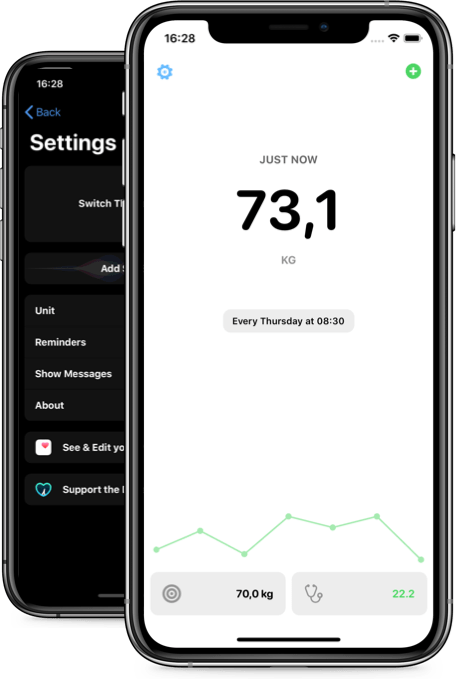
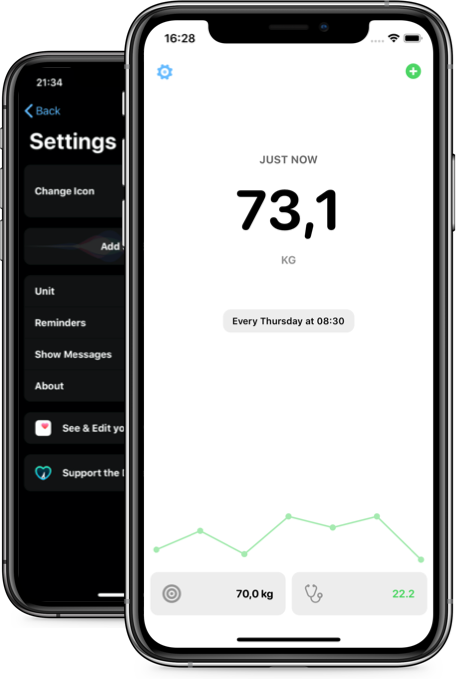
Updated website with latest version of the app

diff --git a/css/main-min.css b/css/main-min.css
@@ -1,1 +1,1 @@
-*{--text-color: #fff;--bg-color: #000;--red: #FB3D38;--blue: #66BBFF;--green: #4CD564;--shade-1: #6A6A6A;--shade-2: #2D2D2D;--shade-3: #121212;--app-store: url(../img/dark/app-store.svg);--header-visual: -webkit-image-set(url(../img/dark/top-visual.png) 1x, url(../img/dark/top-visual@2x.png) 2x);--video-frame: -webkit-image-set(url(../img/dark/reminder-frame.png) 1x, url(../img/dark/reminder-frame@2x.png) 2x);--bmi-visual: -webkit-image-set(url(../img/dark/bmi-visual.png) 1x, url(../img/dark/bmi-visual@2x.png) 2x);--target-visual: -webkit-image-set(url(../img/light/target-visual.png) 1x, url(../img/light/target-visual@2x.png) 2x);--nav-gradient-2: rgba(0,0,0,0)}@media (prefers-color-scheme: light){*{--text-color: #000;--bg-color: #fff;--blue: #33A4FF;--green: #2EC248;--shade-1: #949494;--shade-2: #D1D1D1;--shade-3: #EDEDED;--app-store: url(../img/light/app-store.svg);--header-visual: -webkit-image-set(url(../img/light/top-visual.png) 1x, url(../img/light/top-visual@2x.png) 2x);--video-frame: -webkit-image-set(url(../img/light/reminder-frame.png) 1x, url(../img/light/reminder-frame@2x.png) 2x);--bmi-visual: -webkit-image-set(url(../img/light/bmi-visual.png) 1x, url(../img/light/bmi-visual@2x.png) 2x);--target-visual: -webkit-image-set(url(../img/light/target-visual.png) 1x, url(../img/light/target-visual@2x.png) 2x);--nav-gradient-2: rgba(255,255,255,0)}}html,body{color:var(--text-color);background:var(--bg-color);font-size:1em;line-height:1.4;margin:0;width:100%;overflow-x:none}.unavailable{opacity:.5;text-decoration:line-through !important}::-moz-selection{background:var(--blue);text-shadow:none}::selection{background:var(--blue);text-shadow:none}hr{display:block;height:1px;border:0;border-top:1px solid #ccc;margin:1em 0;padding:0}audio,canvas,iframe,img,svg,video{vertical-align:middle}fieldset{border:0;margin:0;padding:0}textarea{resize:vertical}.browserupgrade{margin:0.2em 0;background:#ccc;color:#000;padding:0.2em 0}html{box-sizing:border-box;font-family:-apple-system, BlinkMacSystemFont, SegoeUI, 'Segoe UI', 'Roboto', Roboto, Helvetica, Arial, sans-serif, 'Apple Color Emoji', 'Segoe UI Emoji', 'Segoe UI Symbol';-webkit-font-smoothing:antialiased;height:100%}*,*:before,*:after{box-sizing:inherit}input[type='submit'],strong{font-family:-apple-system, BlinkMacSystemFont, SegoeUI, 'Segoe UI', 'Roboto', Roboto, Helvetica, Arial, sans-serif, 'Apple Color Emoji', 'Segoe UI Emoji', 'Segoe UI Symbol'}.main{display:-webkit-box;display:-webkit-flex;display:flex;-webkit-box-orient:vertical;-webkit-box-direction:normal;-webkit-flex-direction:column;flex-direction:column;height:100%;margin:0 auto;padding:constant(safe-area-inset-top) constant(safe-area-inset-right) constant(safe-area-inset-bottom) constant(safe-area-inset-left);padding:env(safe-area-inset-top) env(safe-area-inset-right) env(safe-area-inset-bottom) env(safe-area-inset-left);width:100%}@media (min-width: 1024px){.main{max-width:1440px}}a.app-store{display:block;width:184px;height:56px;background:url(../img/dark/app-store.svg);background:var(--app-store);background-size:cover;-webkit-transition:200ms ease-in-out;transition:200ms ease-in-out}a.app-store:hover{opacity:0.7}.header{height:100vh;max-height:1080px;width:100vw;max-width:1280px;margin:0 auto;margin-top:32px;padding:0 0 0 32px;display:grid;grid-template-rows:repeat(1, auto);grid-template-columns:repeat(8, 1fr);grid-column-gap:1rem}.header-text{height:100%;width:100%;grid-column-start:1;grid-column-end:6;display:-webkit-box;display:-webkit-flex;display:flex;-webkit-box-orient:vertical;-webkit-box-direction:normal;-webkit-flex-direction:column;flex-direction:column;-webkit-box-align:center;-webkit-align-items:center;align-items:center;-webkit-box-pack:center;-webkit-justify-content:center;justify-content:center}.header-visual{grid-column-start:6;grid-column-end:none;display:-webkit-box;display:-webkit-flex;display:flex;-webkit-box-orient:vertical;-webkit-box-direction:normal;-webkit-flex-direction:column;flex-direction:column;-webkit-box-align:center;-webkit-align-items:center;align-items:center;-webkit-box-pack:center;-webkit-justify-content:center;justify-content:center}span.header-visual-box{background-position:center;background:-webkit-image-set(url(../img/light/top-visual.png) 1x, url(../img/light/top-visual@2x.png) 2x);background:var(--header-visual);background-repeat:no-repeat;background-size:cover;width:100%;height:100%;max-width:456px;max-height:679px;display:block}.header-text-box{display:-webkit-box;display:-webkit-flex;display:flex;-webkit-box-orient:vertical;-webkit-box-direction:normal;-webkit-flex-direction:column;flex-direction:column;-webkit-box-align:start;-webkit-align-items:flex-start;align-items:flex-start;-webkit-box-pack:center;-webkit-justify-content:center;justify-content:center}.header-text-box p{max-width:560px;font-size:1.5rem;padding-bottom:2rem;color:var(--text-color)}h1.eyebrow{font-size:1.5rem;font-weight:400;color:var(--shade-1)}h1.eyebrow strong{font-weight:800;color:var(--text-color)}h2.headline{font-size:4.5rem;font-weight:800;line-height:100%;margin:4px 0}h2{font-size:3rem;font-weight:800;line-height:100%;margin:24px 0}nav{height:64px;width:100vw;position:fixed;z-index:100;display:-webkit-box;display:-webkit-flex;display:flex;-webkit-box-align:center;-webkit-align-items:center;align-items:center;-webkit-box-pack:justify;-webkit-justify-content:space-between;justify-content:space-between;padding:.5rem 2rem;background:-webkit-linear-gradient(top, var(--bg-color) 1%, var(--nav-gradient-2) 100%);background:linear-gradient(to bottom, var(--bg-color) 1%, var(--nav-gradient-2) 100%)}nav .logo{display:block;width:3rem;height:3rem;background:-webkit-image-set(url(../img/app-icon.png) 1x, url(../img/app-icon@2x.png) 2x)}.privacy{padding:2rem;}.privacy h1{font-size:3rem;font-weight:800;line-height:100%;margin:24px 0;padding-top:32px}nav .links a{margin:.5rem 1rem .5rem .5rem;text-decoration:none;font-weight:550;color:var(--shade-1);-webkit-transition:.4s;transition:.4s}nav .links a.cta{color:var(--blue);margin-right:0}nav .links a:hover{color:var(--green)}.reminder-video{width:228px;height:465px;display:-webkit-box;display:-webkit-flex;display:flex;-webkit-box-align:center;-webkit-align-items:center;align-items:center;-webkit-box-pack:center;-webkit-justify-content:center;justify-content:center;position:relative}.video-frame{width:228px;height:465px;position:absolute;z-index:10;background:-webkit-image-set(url(../img/light/reminder-frame.png) 1x, url(../img/light/reminder-frame@2x.png) 2x);background:var(--video-frame);background-repeat:no-repeat;top:4px}.reminder-video video{width:198px;height:430px;position:absolute;top:18px}article{width:100vw;max-width:1280px;margin:0 auto;padding:6rem 2rem}.features{display:grid;grid-template-columns:repeat(3, 1fr);grid-template-rows:repeat(2, auto);grid-gap:2rem 1rem;padding-top:0;margin-top:3rem}.features.small-grid{grid-template-columns:repeat(4, 1fr);margin-top:3rem}.features .section{padding:24px;width:100%;background:var(--shade-3);border-radius:.5rem;height:568px}.features .section p{color:var(--text-color);max-width:22rem;margin:0;font-size:1.125rem;font-weight:600}.features .section h3{margin:0 0 4px 0;font-size:1.125rem;font-weight:800}.features.small-grid .section{height:auto;font-weight:bold}.features.small-grid h4{margin:0}.features.small-grid p{font-size:1rem;font-weight:400;color:var(--shade-1)}.section.small{background:-webkit-linear-gradient(var(--bg-color), var(--shade-3));background:linear-gradient(var(--bg-color), var(--shade-3))}.section.health{grid-column-start:1;grid-column-end:2}.section .feature-content{height:100%;display:-webkit-box;display:-webkit-flex;display:flex;-webkit-box-orient:vertical;-webkit-box-direction:normal;-webkit-flex-direction:column;flex-direction:column;-webkit-box-align:center;-webkit-align-items:center;align-items:center;-webkit-box-pack:justify;-webkit-justify-content:space-between;justify-content:space-between}.section .feature-visual{width:100%;height:100%;display:-webkit-box;display:-webkit-flex;display:flex;-webkit-box-align:center;-webkit-align-items:center;align-items:center;-webkit-box-pack:center;-webkit-justify-content:center;justify-content:center}.section.reminders{grid-column-start:2;grid-column-end:4;display:-webkit-box;display:-webkit-flex;display:flex;-webkit-box-align:center;-webkit-align-items:center;align-items:center;-webkit-justify-content:space-around;justify-content:space-around}.section.reminders i{display:block;font-size:.75rem;margin-top:.5rem}.section.bmi{grid-column-start:1;grid-column-end:3;display:-webkit-box;display:-webkit-flex;display:flex;-webkit-box-align:center;-webkit-align-items:center;align-items:center;-webkit-justify-content:space-around;justify-content:space-around}.section.bmi .feature-visual{width:352px;height:478px;display:inherit;background:-webkit-image-set(url(../img/dark/bmi-visual.png) 1x, url(../img/dark/bmi-visual@2x.png) 2x);background:var(--bmi-visual);background-size:cover;background-repeat:no-repeat}.watch{background:var(--shade-3);border-radius:1rem;padding:2rem 2rem 4rem 2rem;margin-top:6rem}.watch h2{max-width:596px}.watch p{max-width:596px;font-size:1.5rem;margin-bottom:5.5rem}.watch-version{display:grid;grid-template-columns:repeat(4, 1fr);grid-gap:1rem}.watch-version .section{display:-webkit-box;display:-webkit-flex;display:flex;-webkit-box-align:center;-webkit-align-items:center;align-items:center;-webkit-box-orient:vertical;-webkit-box-direction:normal;-webkit-flex-direction:column;flex-direction:column;-webkit-box-pack:center;-webkit-justify-content:center;justify-content:center}.watch-version img{width:168px;height:auto;display:inherit}.watch-version h4{text-align:center;margin-top:3rem}.section.target .feature-visual{width:169px;height:303px;display:inherit;background:-webkit-image-set(url(../img/light/target-visual.png) 1x, url(../img/light/target-visual@2x.png) 2x);background:var(--target-visual);margin-top:2.5rem;background-repeat:no-repeat}.section.target{grid-column-start:3;grid-column-end:4}.red{color:var(--red)}.blue{color:var(--blue)}.green{color:var(--green)}.footer{-webkit-box-align:center;-webkit-align-items:center;align-items:center;color:var(--shade-1);display:-webkit-box;display:-webkit-flex;display:flex;-webkit-box-orient:vertical;-webkit-box-direction:normal;-webkit-flex-direction:column;flex-direction:column;-webkit-box-pack:center;-webkit-justify-content:center;justify-content:center;margin-bottom:48px;margin-top:72px}.footer .app-store{margin-bottom:2rem}.footer .copyright{color:var(--shade-1);text-decoration:none;font-weight:600;margin-top:.5rem}.footer .copyright:hover{color:var(--blue)}@media (min-width: 1024px){.footer{margin-bottom:64px;margin-top:144px}}@media (max-width: 700px){nav{padding:.55rem}.main{width:100vw;max-height:none;overflow-x:hidden}.header{grid-template-columns:repeat(1, auto);grid-template-rows:repeat(2, auto);margin-top:6rem;padding:.75rem;max-height:none;height:auto;background:-webkit-linear-gradient(top, var(--bg-color) 1%, var(--shade-3) 100%);background:linear-gradient(to bottom, var(--bg-color) 1%, var(--shade-3) 100%);padding-bottom:0}.header h2.headline{font-size:4rem}.header-text{grid-column-end:none}.header-visual{grid-column-start:1;height:50vh;margin-top:4rem}nav .cta{display:none}article{padding:6rem 1rem 0rem 1rem}article.watch{border-radius:0}article.watch .headline{font-size:3rem}.watch-version{overflow-x:scroll;-webkit-overflow-scrolling:touch;margin-left:-2rem;width:100vw;padding-left:2rem;padding-right:2rem}.features.small-grid{grid-gap:1rem}.features.small-grid .section{-webkit-box-align:start;-webkit-align-items:flex-start;align-items:flex-start}.watch p{margin-bottom:4rem}.features{display:grid;grid-template-columns:repeat(1, auto);grid-template-rows:repeat(4, auto);grid-gap:2rem 1rem;padding-top:0}.features .section{grid-column-start:1 !important;grid-column-end:1 !important;height:auto;width:calc(100vw - 2rem);display:-webkit-box;display:-webkit-flex;display:flex;-webkit-box-orient:vertical;-webkit-box-direction:normal;-webkit-flex-direction:column;flex-direction:column;-webkit-box-align:center;-webkit-align-items:center;align-items:center;-webkit-box-pack:center;-webkit-justify-content:center;justify-content:center}.section.bmi{display:-webkit-box;display:-webkit-flex;display:flex;-webkit-box-align:center;-webkit-align-items:center;align-items:center;-webkit-justify-content:space-around;justify-content:space-around;padding-bottom:0rem}.section.bmi .feature-visual{margin-top:1rem;margin-bottom:-2rem}.section.target .feature-visual{margin-bottom:2rem}.section.reminder{display:-webkit-box;display:-webkit-flex;display:flex;-webkit-box-align:center;-webkit-align-items:center;align-items:center;-webkit-box-orient:vertical;-webkit-box-direction:normal;-webkit-flex-direction:column;flex-direction:column;-webkit-justify-content:space-around;justify-content:space-around}.reminder-video{margin-top:2rem;margin-bottom:1rem}}
+*{--text-color: #fff;--bg-color: #000;--red: #FB3D38;--blue: #66BBFF;--green: #4CD564;--shade-1: #6A6A6A;--shade-2: #2D2D2D;--shade-3: #121212;--app-store: url(../img/dark/app-store.svg);--header-visual: -webkit-image-set(url(../img/dark/top-visual.png) 1x, url(../img/dark/top-visual@2x.png) 2x);--video-frame: -webkit-image-set(url(../img/dark/reminder-frame.png) 1x, url(../img/dark/reminder-frame@2x.png) 2x);--bmi-visual: -webkit-image-set(url(../img/dark/bmi-visual.png) 1x, url(../img/dark/bmi-visual@2x.png) 2x);--target-visual: -webkit-image-set(url(../img/light/target-visual.png) 1x, url(../img/light/target-visual@2x.png) 2x);--nav-gradient-2: rgba(0,0,0,0)}@media (prefers-color-scheme: light){*{--text-color: #000;--bg-color: #fff;--blue: #33A4FF;--green: #2EC248;--shade-1: #949494;--shade-2: #D1D1D1;--shade-3: #EDEDED;--app-store: url(../img/light/app-store.svg);--header-visual: -webkit-image-set(url(../img/light/top-visual.png) 1x, url(../img/light/top-visual@2x.png) 2x);--video-frame: -webkit-image-set(url(../img/light/reminder-frame.png) 1x, url(../img/light/reminder-frame@2x.png) 2x);--bmi-visual: -webkit-image-set(url(../img/light/bmi-visual.png) 1x, url(../img/light/bmi-visual@2x.png) 2x);--target-visual: -webkit-image-set(url(../img/light/target-visual.png) 1x, url(../img/light/target-visual@2x.png) 2x);--nav-gradient-2: rgba(255,255,255,0)}}html,body{color:var(--text-color);background:var(--bg-color);font-size:1em;line-height:1.4;margin:0;width:100%;overflow-x:none}.unavailable{opacity:.5;text-decoration:line-through !important}::-moz-selection{background:var(--blue);text-shadow:none}::selection{background:var(--blue);text-shadow:none}hr{display:block;height:1px;border:0;border-top:1px solid #ccc;margin:1em 0;padding:0}audio,canvas,iframe,img,svg,video{vertical-align:middle}fieldset{border:0;margin:0;padding:0}textarea{resize:vertical}.browserupgrade{margin:0.2em 0;background:#ccc;color:#000;padding:0.2em 0}html{box-sizing:border-box;font-family:-apple-system, BlinkMacSystemFont, SegoeUI, 'Segoe UI', 'Roboto', Roboto, Helvetica, Arial, sans-serif, 'Apple Color Emoji', 'Segoe UI Emoji', 'Segoe UI Symbol';-webkit-font-smoothing:antialiased;height:100%}*,*:before,*:after{box-sizing:inherit}input[type='submit'],strong{font-family:-apple-system, BlinkMacSystemFont, SegoeUI, 'Segoe UI', 'Roboto', Roboto, Helvetica, Arial, sans-serif, 'Apple Color Emoji', 'Segoe UI Emoji', 'Segoe UI Symbol'}.main{display:-webkit-box;display:-webkit-flex;display:flex;-webkit-box-orient:vertical;-webkit-box-direction:normal;-webkit-flex-direction:column;flex-direction:column;height:100%;margin:0 auto;padding:constant(safe-area-inset-top) constant(safe-area-inset-right) constant(safe-area-inset-bottom) constant(safe-area-inset-left);padding:env(safe-area-inset-top) env(safe-area-inset-right) env(safe-area-inset-bottom) env(safe-area-inset-left);width:100%}@media (min-width: 1024px){.main{max-width:1440px}}a.app-store{display:block;width:184px;height:56px;background:url(../img/dark/app-store.svg);background:var(--app-store);background-size:cover;-webkit-transition:200ms ease-in-out;transition:200ms ease-in-out}a.app-store:hover{opacity:0.7}.header{height:100vh;max-height:1080px;width:100vw;max-width:1280px;margin:0 auto;margin-top:32px;padding:0 0 0 32px;display:grid;grid-template-rows:repeat(1, auto);grid-template-columns:repeat(8, 1fr);grid-column-gap:1rem}.header-text{height:100%;width:100%;grid-column-start:1;grid-column-end:6;display:-webkit-box;display:-webkit-flex;display:flex;-webkit-box-orient:vertical;-webkit-box-direction:normal;-webkit-flex-direction:column;flex-direction:column;-webkit-box-align:center;-webkit-align-items:center;align-items:center;-webkit-box-pack:center;-webkit-justify-content:center;justify-content:center}.header-visual{grid-column-start:6;grid-column-end:none;display:-webkit-box;display:-webkit-flex;display:flex;-webkit-box-orient:vertical;-webkit-box-direction:normal;-webkit-flex-direction:column;flex-direction:column;-webkit-box-align:center;-webkit-align-items:center;align-items:center;-webkit-box-pack:center;-webkit-justify-content:center;justify-content:center}span.header-visual-box{background-position:center;background:-webkit-image-set(url(../img/light/top-visual.png) 1x, url(../img/light/top-visual@2x.png) 2x);background:var(--header-visual);background-repeat:no-repeat;background-size:cover;width:100%;height:100%;max-width:456px;max-height:679px;display:block}.header-text-box{display:-webkit-box;display:-webkit-flex;display:flex;-webkit-box-orient:vertical;-webkit-box-direction:normal;-webkit-flex-direction:column;flex-direction:column;-webkit-box-align:start;-webkit-align-items:flex-start;align-items:flex-start;-webkit-box-pack:center;-webkit-justify-content:center;justify-content:center}.header-text-box p{max-width:560px;font-size:1.5rem;padding-bottom:2rem;color:var(--text-color)}h1.eyebrow{font-size:1.5rem;font-weight:400;color:var(--shade-1)}h1.eyebrow strong{font-weight:800;color:var(--text-color)}h2.headline{font-size:4.5rem;font-weight:800;line-height:100%;margin:4px 0}h2{font-size:3rem;font-weight:800;line-height:100%;margin:24px 0}nav{height:64px;width:100vw;position:fixed;z-index:100;display:-webkit-box;display:-webkit-flex;display:flex;-webkit-box-align:center;-webkit-align-items:center;align-items:center;-webkit-box-pack:justify;-webkit-justify-content:space-between;justify-content:space-between;padding:.5rem 2rem;-webkit-backdrop-filter: saturate(1.8) blur(20px);background:-webkit-linear-gradient(top, var(--bg-color) 1%, var(--nav-gradient-2) 100%);background:linear-gradient(to bottom, var(--bg-color) 1%, var(--nav-gradient-2) 100%)}nav .logo{display:block;width:3rem;height:3rem;background:-webkit-image-set(url(../img/app-icon.png) 1x, url(../img/app-icon@2x.png) 2x)}.privacy{padding:2rem;}.privacy h1{font-size:3rem;font-weight:800;line-height:100%;margin:24px 0;padding-top:32px}nav .links a{margin:.5rem 1rem .5rem .5rem;text-decoration:none;font-weight:550;color:var(--shade-1);-webkit-transition:.4s;transition:.4s}nav .links a.cta{color:var(--blue);margin-right:0}nav .links a:hover{color:var(--green)}.reminder-video{width:228px;height:465px;display:-webkit-box;display:-webkit-flex;display:flex;-webkit-box-align:center;-webkit-align-items:center;align-items:center;-webkit-box-pack:center;-webkit-justify-content:center;justify-content:center;position:relative}.video-frame{width:228px;height:465px;position:absolute;z-index:10;background:-webkit-image-set(url(../img/light/reminder-frame.png) 1x, url(../img/light/reminder-frame@2x.png) 2x);background:var(--video-frame);background-repeat:no-repeat;top:4px}.reminder-video video{width:198px;height:430px;position:absolute;top:18px}article{width:100vw;max-width:1280px;margin:0 auto;padding:6rem 2rem}.features{display:grid;grid-template-columns:repeat(3, 1fr);grid-template-rows:repeat(2, auto);grid-gap:2rem 1rem;padding-top:0;margin-top:3rem}.features.small-grid{grid-template-columns:repeat(4, 1fr);margin-top:3rem}.features .section{padding:24px;width:100%;background:var(--shade-3);border-radius:.5rem;height:568px}.features .section p{color:var(--text-color);max-width:22rem;margin:0;font-size:1.125rem;font-weight:600}.features .section h3{margin:0 0 4px 0;font-size:1.125rem;font-weight:800}.features.small-grid .section{height:auto;font-weight:bold}.features.small-grid h4{margin:0}.features.small-grid p{font-size:1rem;font-weight:400;color:var(--shade-1)}.section.small{background:-webkit-linear-gradient(var(--bg-color), var(--shade-3));background:linear-gradient(var(--bg-color), var(--shade-3))}.section.health{grid-column-start:1;grid-column-end:2}.section .feature-content{height:100%;display:-webkit-box;display:-webkit-flex;display:flex;-webkit-box-orient:vertical;-webkit-box-direction:normal;-webkit-flex-direction:column;flex-direction:column;-webkit-box-align:center;-webkit-align-items:center;align-items:center;-webkit-box-pack:justify;-webkit-justify-content:space-between;justify-content:space-between}.section .feature-visual{width:100%;height:100%;display:-webkit-box;display:-webkit-flex;display:flex;-webkit-box-align:center;-webkit-align-items:center;align-items:center;-webkit-box-pack:center;-webkit-justify-content:center;justify-content:center}.section.reminders{grid-column-start:2;grid-column-end:4;display:-webkit-box;display:-webkit-flex;display:flex;-webkit-box-align:center;-webkit-align-items:center;align-items:center;-webkit-justify-content:space-around;justify-content:space-around}.section.reminders i{display:block;font-size:.75rem;margin-top:.5rem}.section.bmi{grid-column-start:1;grid-column-end:3;display:-webkit-box;display:-webkit-flex;display:flex;-webkit-box-align:center;-webkit-align-items:center;align-items:center;-webkit-justify-content:space-around;justify-content:space-around}.section.bmi .feature-visual{width:352px;height:478px;display:inherit;background:-webkit-image-set(url(../img/dark/bmi-visual.png) 1x, url(../img/dark/bmi-visual@2x.png) 2x);background:var(--bmi-visual);background-size:cover;background-repeat:no-repeat}.watch{background:var(--shade-3);border-radius:1rem;padding:2rem 2rem 4rem 2rem;margin-top:6rem}.watch h2{max-width:596px}.watch p{max-width:596px;font-size:1.5rem;margin-bottom:5.5rem}.watch-version{display:grid;grid-template-columns:repeat(4, 1fr);grid-gap:1rem}.watch-version .section{display:-webkit-box;display:-webkit-flex;display:flex;-webkit-box-align:center;-webkit-align-items:center;align-items:center;-webkit-box-orient:vertical;-webkit-box-direction:normal;-webkit-flex-direction:column;flex-direction:column;-webkit-box-pack:center;-webkit-justify-content:center;justify-content:center}.watch-version img{width:168px;height:auto;display:inherit}.watch-version h4{text-align:center;margin-top:3rem}.section.target .feature-visual{width:169px;height:303px;display:inherit;background:-webkit-image-set(url(../img/light/target-visual.png) 1x, url(../img/light/target-visual@2x.png) 2x);background:var(--target-visual);margin-top:2.5rem;background-repeat:no-repeat}.section.target{grid-column-start:3;grid-column-end:4}.red{color:var(--red)}.blue{color:var(--blue)}.green{color:var(--green)}.footer{-webkit-box-align:center;-webkit-align-items:center;align-items:center;color:var(--shade-1);display:-webkit-box;display:-webkit-flex;display:flex;-webkit-box-orient:vertical;-webkit-box-direction:normal;-webkit-flex-direction:column;flex-direction:column;-webkit-box-pack:center;-webkit-justify-content:center;justify-content:center;margin-bottom:48px;margin-top:72px}.footer .app-store{margin-bottom:2rem}.footer .copyright{color:var(--shade-1);text-decoration:none;font-weight:600;margin-top:.5rem}.footer .copyright:hover{color:var(--blue)}@media (min-width: 1024px){.footer{margin-bottom:64px;margin-top:144px}}@media (max-width: 700px){nav{padding:.55rem}.main{width:100vw;max-height:none;overflow-x:hidden}.header{grid-template-columns:repeat(1, auto);grid-template-rows:repeat(2, auto);margin-top:6rem;padding:.75rem;max-height:none;height:auto;background:-webkit-linear-gradient(top, var(--bg-color) 1%, var(--shade-3) 100%);background:linear-gradient(to bottom, var(--bg-color) 1%, var(--shade-3) 100%);padding-bottom:0}.header h2.headline{font-size:4rem}.header-text{grid-column-end:none}.header-visual{grid-column-start:1;height:50vh;margin-top:4rem}nav .cta{display:none}article{padding:6rem 1rem 0rem 1rem}article.watch{border-radius:0}article.watch .headline{font-size:3rem}.watch-version{overflow-x:scroll;-webkit-overflow-scrolling:touch;margin-left:-2rem;width:100vw;padding-left:2rem;padding-right:2rem}.features.small-grid{grid-gap:1rem}.features.small-grid .section{-webkit-box-align:start;-webkit-align-items:flex-start;align-items:flex-start}.watch p{margin-bottom:4rem}.features{display:grid;grid-template-columns:repeat(1, auto);grid-template-rows:repeat(4, auto);grid-gap:2rem 1rem;padding-top:0}.features .section{grid-column-start:1 !important;grid-column-end:1 !important;height:auto;width:calc(100vw - 2rem);display:-webkit-box;display:-webkit-flex;display:flex;-webkit-box-orient:vertical;-webkit-box-direction:normal;-webkit-flex-direction:column;flex-direction:column;-webkit-box-align:center;-webkit-align-items:center;align-items:center;-webkit-box-pack:center;-webkit-justify-content:center;justify-content:center}.section.bmi{display:-webkit-box;display:-webkit-flex;display:flex;-webkit-box-align:center;-webkit-align-items:center;align-items:center;-webkit-justify-content:space-around;justify-content:space-around;padding-bottom:0rem}.section.bmi .feature-visual{margin-top:1rem;margin-bottom:-2rem}.section.target .feature-visual{margin-bottom:2rem}.section.reminder{display:-webkit-box;display:-webkit-flex;display:flex;-webkit-box-align:center;-webkit-align-items:center;align-items:center;-webkit-box-orient:vertical;-webkit-box-direction:normal;-webkit-flex-direction:column;flex-direction:column;-webkit-justify-content:space-around;justify-content:space-around}.reminder-video{margin-top:2rem;margin-bottom:1rem}}

diff --git a/index.html b/index.html
@@ -111,8 +111,8 @@
           <p>Subtle chart for progress indication.</p>
         </section>
         <section class="section">
-          <h4 class="green">Dark & Light Themes</h4>
-          <p>Different themes for different tastes.</p>
+          <h4 class="green">Darkmode support</h4>
+          <p>Vekt will blend perfectly with iOS13.</p>
         </section>
         <section class="section">
           <h4 class="green">Height Entry</h4>
